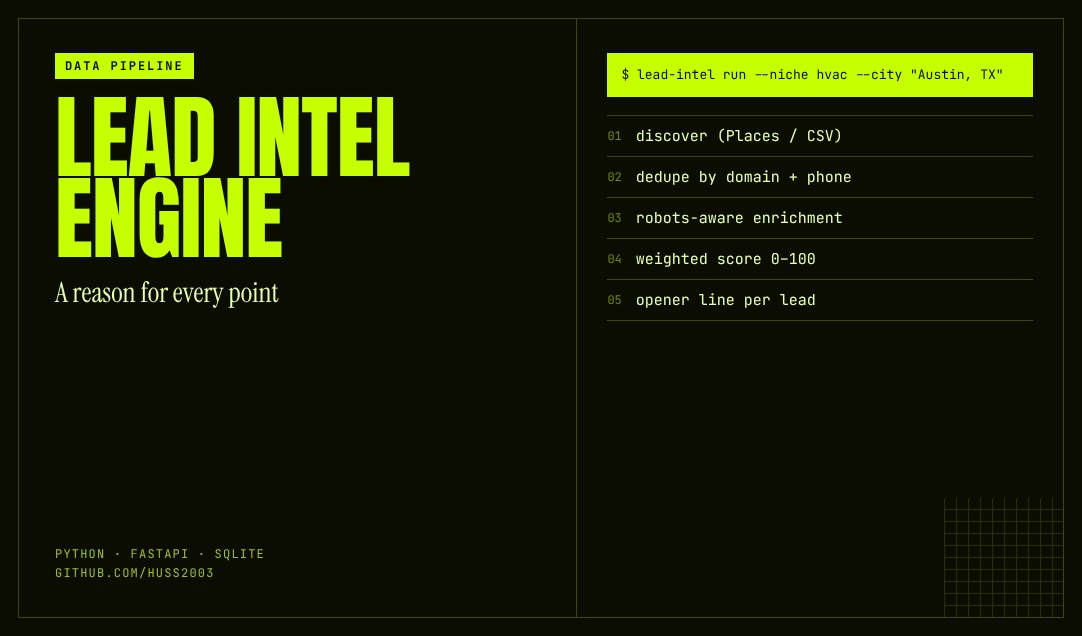
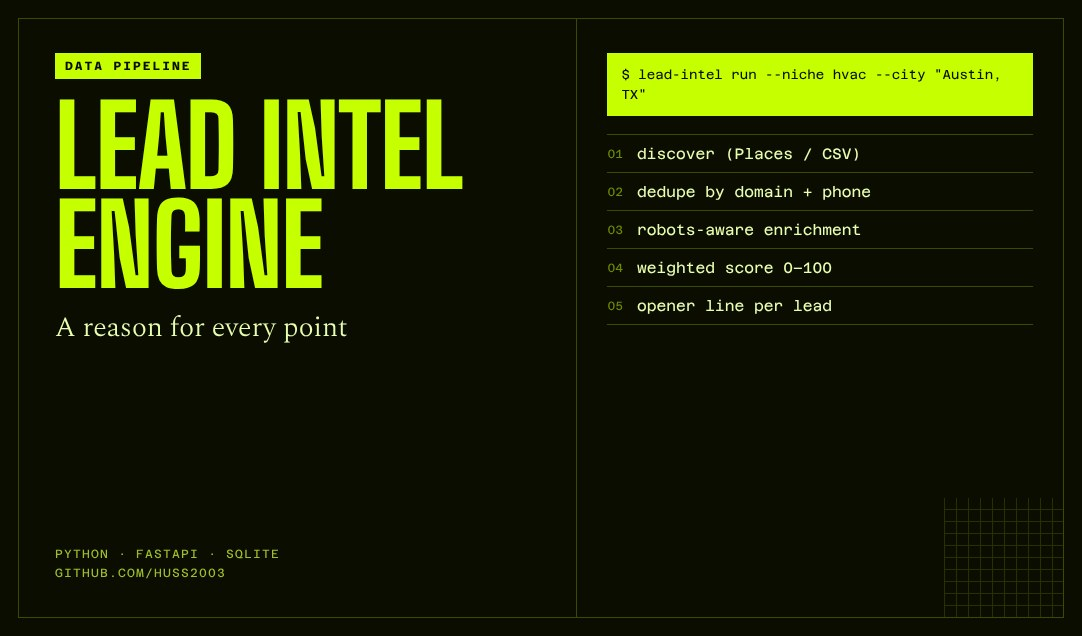
Keep project cards above the letter tunnel; new type system
- Work tunnel: letter ghosts always render behind the cards (no more W over a card)
- Fonts: Big Shoulders Display (display), Spectral (reading), Azeret Mono (labels)
- Posters, timeline cards and the share image re-rendered in the new fonts

Claude-Session: https://claude.ai/code/session_01KpFYtxcUnqeMvmEtBNY5wD

diff --git a/public/css/tokens.css b/public/css/tokens.css
@@ -15,16 +15,14 @@
   --color-volt: #c6ff00;          /* hard-coded in hatch patterns / contrast mask (the original hard-coded #f40c3f there) */
   --color-error: #0a0d00;         /* errors use ink + an icon, never colour alone */
 
-  /* Free stand-ins (Google Fonts) for the original's three voices */
-  --font-family-bigger: "Anton", "Arial Narrow", sans-serif;           /* Bigger Display 700 */
-  --font-family-editorial: "Instrument Serif", Georgia, serif;          /* PP Editorial New 200/400 */
-  --font-family-fraktion: "JetBrains Mono", ui-monospace, monospace;    /* PP Fraktion Mono 400/700 */
+  /* Three voices: a condensed industrial display, a light book serif, a technical mono */
+  --font-family-bigger: "Big Shoulders Display", "Arial Narrow", sans-serif;  /* display, 800 */
+  --font-family-editorial: "Spectral", Georgia, serif;                        /* reading, 300 */
+  --font-family-fraktion: "Azeret Mono", ui-monospace, monospace;             /* labels, 400/700 */
 
-  /* Anton is ~25% wider than Bigger Display; every display size is multiplied by this
-     so line breaks and proportions match the original's screenshots. */
-  --display-k: 0.74;
-  /* Instrument Serif 400 is optically heavier than Editorial Ultralight 200 at the same size. */
-  --editorial-weight: 400;
+  /* Display sizes are multiplied by this so line lengths match the layout grid. */
+  --display-k: 0.9;
+  --editorial-weight: 300;
 
   --font-size-base: 16px;
   --font-height-base: 1.48;

diff --git a/public/css/home.css b/public/css/home.css
@@ -1,7 +1,7 @@
 /* ==========================================================================
    home.css — hero, a-waves, a-separator, about/awards, work scene, my-way,
    CTA (GO → LET'S ROCK), enquiry form. Values from the original index.css.
-   Display sizes are multiplied by --display-k (Anton is wider than Bigger Display).
+   Display sizes are multiplied by --display-k (see tokens.css).
    ========================================================================== */
 
 /* ---------- a-waves (hero Perlin line field) ---------- */
@@ -352,7 +352,7 @@ a-work .a__caption {
   will-change: opacity, transform;
 }
 .s-work .s__scene .s__scene__work {
-  position: absolute; top: 50%; left: 50%; z-index: 2;
+  position: absolute; top: 50%; left: 50%; z-index: 5;   /* cards always above the letter tunnel */
   transform: rotateY(calc(var(--progress) * -20deg))
     translate3d(calc(var(--progress) * (50vw + 100%) - 50%), calc(var(--y) * 50% - 50%), calc(var(--progress) * var(--progress) * -5rem))
     scale(var(--size));

diff --git a/server/shell.html b/server/shell.html
@@ -12,7 +12,7 @@
     <link rel="preconnect" href="https://fonts.googleapis.com">
     <link rel="preconnect" href="https://fonts.gstatic.com" crossorigin>
     <link rel="preconnect" href="https://cdn.jsdelivr.net" crossorigin>
-    <link rel="stylesheet" href="https://fonts.googleapis.com/css2?family=Anton&family=Instrument+Serif:ital@0;1&family=JetBrains+Mono:wght@400;700&display=swap">
+    <link rel="stylesheet" href="https://fonts.googleapis.com/css2?family=Azeret+Mono:wght@400;700&family=Big+Shoulders+Display:wght@800&family=Spectral:ital,wght@0,300;0,400;1,300&display=swap">
     <link rel="stylesheet" href="/css/tokens.css">
     <link rel="stylesheet" href="/css/base.css">
     <link rel="stylesheet" href="/css/header.css">

diff --git a/public/js/elements/a-work.js b/public/js/elements/a-work.js
@@ -19,7 +19,7 @@ export function generatePoster(seedText, label, w = 1082, h = 636) {
   x.strokeStyle = '#C6FF00'; x.lineWidth = 3;
   const cx = w * (0.3 + rnd() * 0.4), cy = h * (0.3 + rnd() * 0.4);
   for (let i = 1; i < 7; i++) { x.beginPath(); x.arc(cx, cy, i * h * 0.06 * (1 + rnd() * 0.3), 0, Math.PI * 2); x.stroke(); }
-  x.fillStyle = '#C6FF00'; x.font = '700 22px "JetBrains Mono", monospace';
+  x.fillStyle = '#C6FF00'; x.font = '700 22px "Azeret Mono", monospace';
   x.fillText(String(label || '').toUpperCase(), 32, h - 32);
   return c.toDataURL('image/png');
 }

diff --git a/public/js/sections/Work.js b/public/js/sections/Work.js
@@ -124,7 +124,7 @@ export class Work {
         span.dataset.letter = L.el.textContent;
         span.style.top = `${L.top}px`;
         span.style.left = `${L.left}px`;
-        span.style.zIndex = String(s !== 1 && s !== 2 && (s + this.letters.length + o) % 5 === 0 ? 3 : 1);
+        span.style.zIndex = '1'; // letters always sit behind the project cards
         span.style.setProperty('--iy', String(((s + 1) / (this.letters.length + 1) - 0.5) * 2));
         span.style.setProperty('--progress', '0.5');
         this.scene.appendChild(span);
